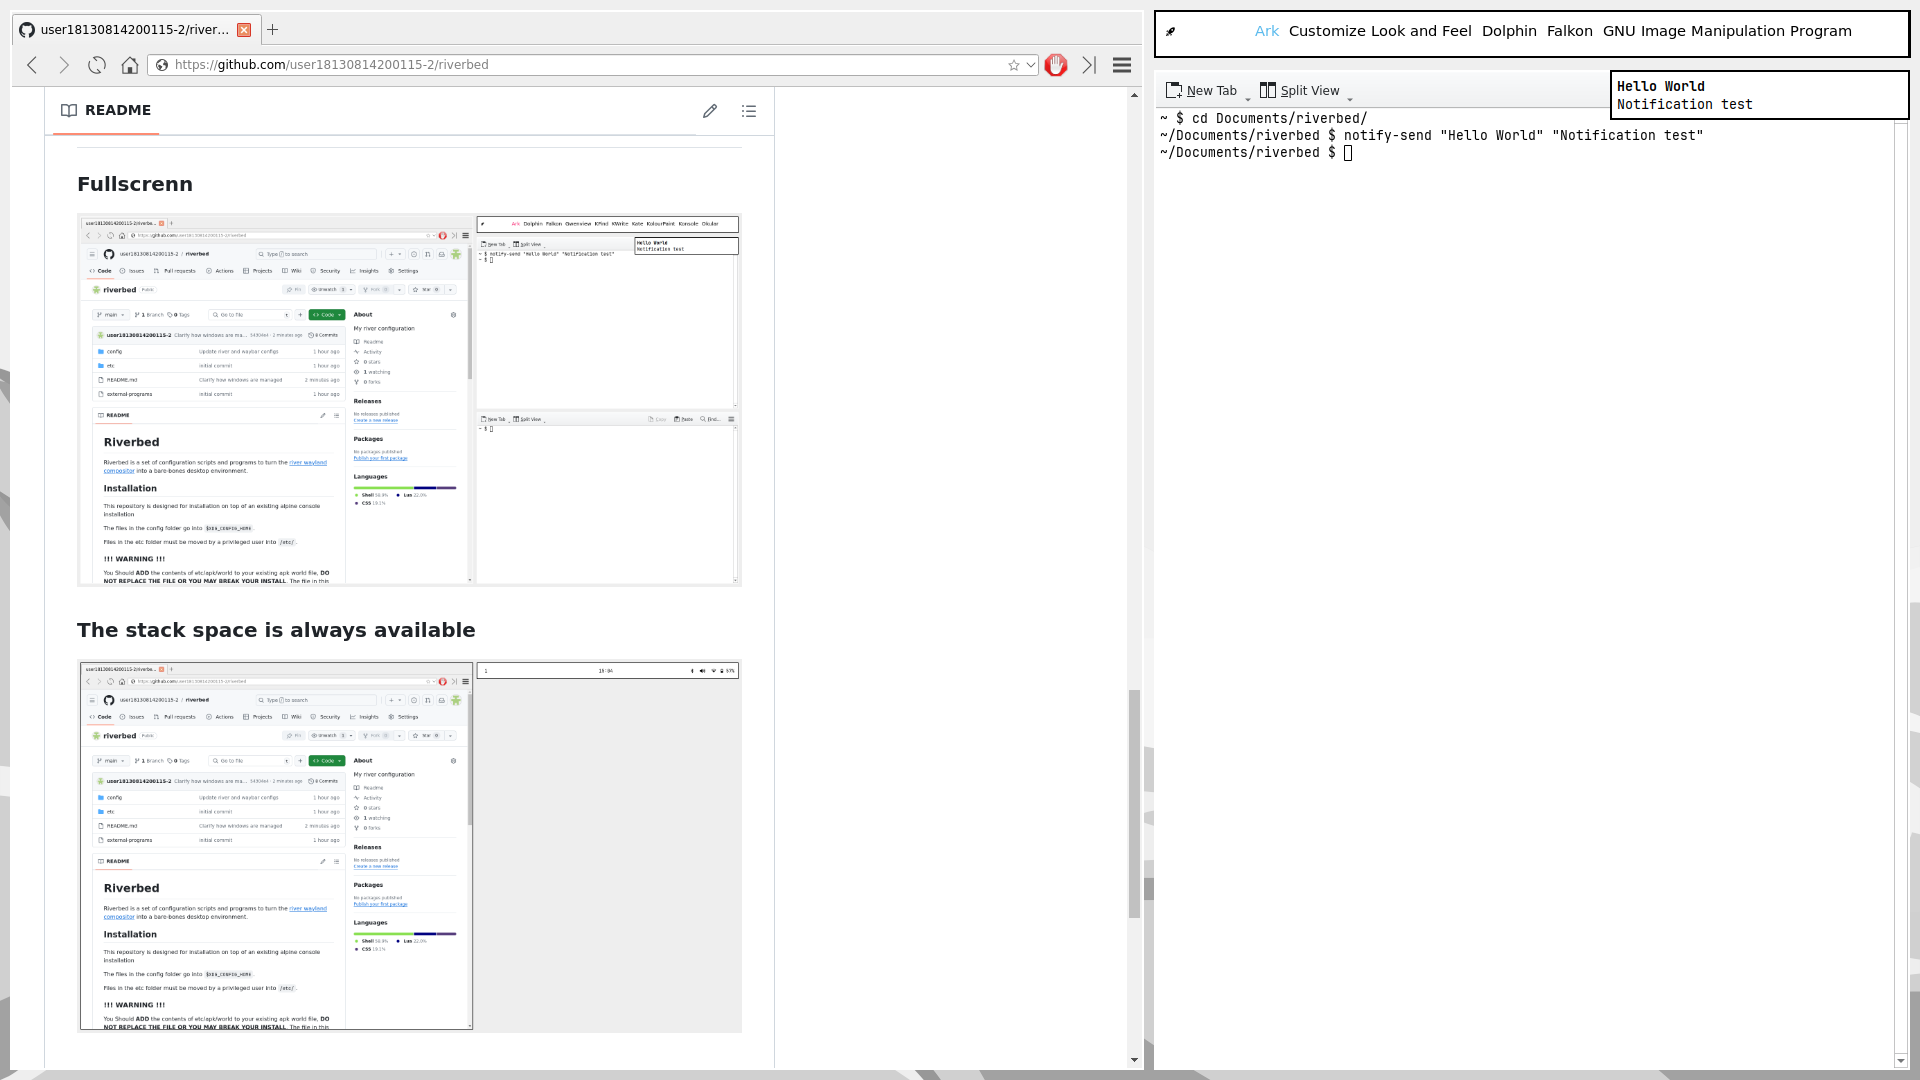
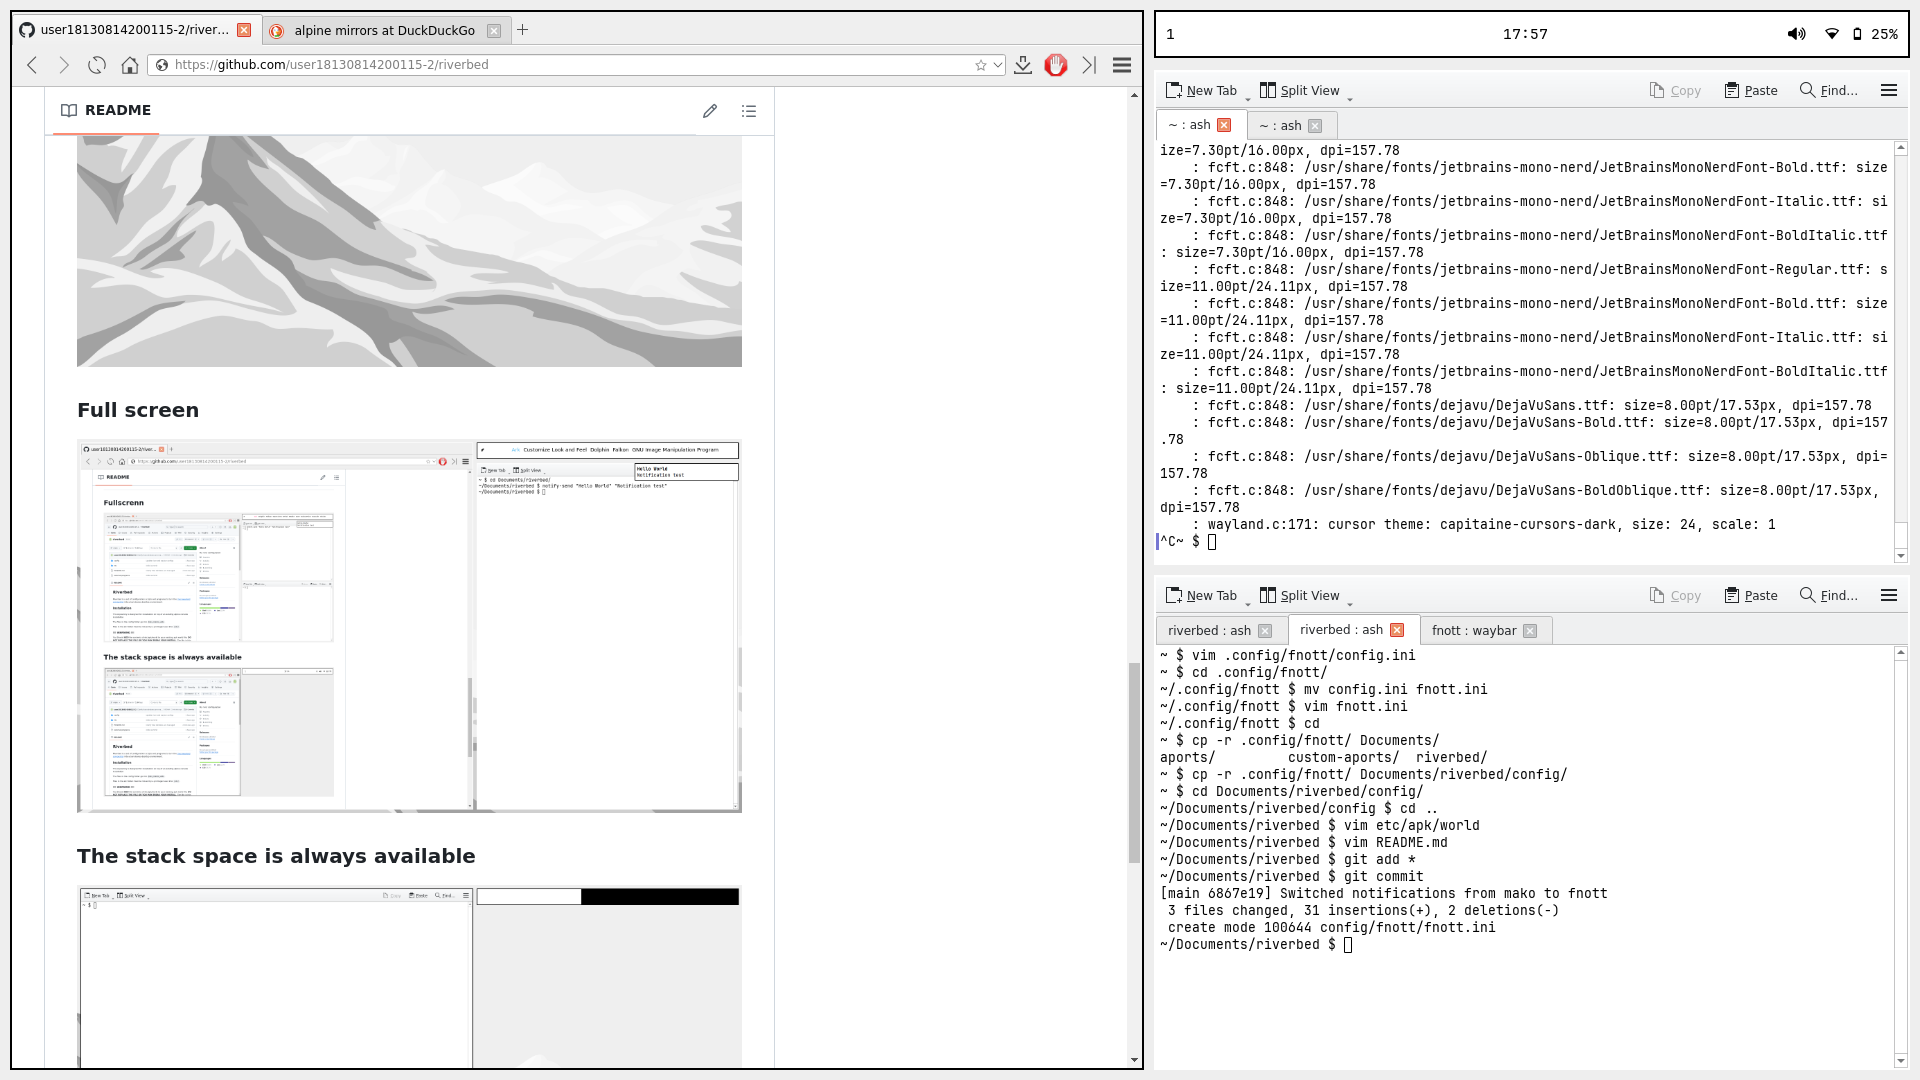
Updated readme pictures for fnott

diff --git a/README.md b/README.md
@@ -92,11 +92,11 @@ configuration, though one must then also change the configuration files for
 ### The Bar, taking up 40% of the screen
 ![bar](pictures/bar.png)
 
-### The launcher overlaps with the bar and uses the same theming
+### Launcher, OSD and Notification use the same space and styling as the bar
 ![launcher](pictures/launcher.png)
+![osd](pictures/osd.png)
+![notification](pictures/notification.png)
 
-### So does the osd for brightness and volume
-![launcher](pictures/osd.png)
 
 ## Hacks
 
